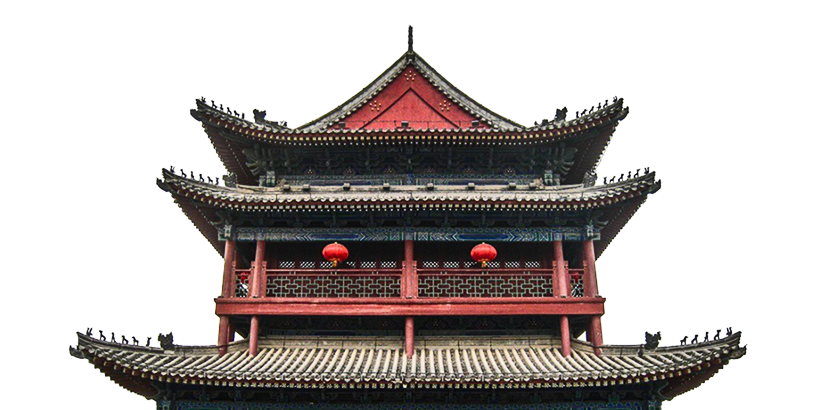
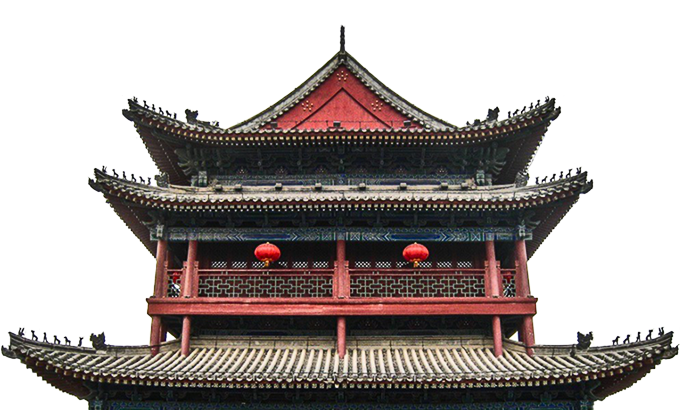
making heroimage small

Changed region(s): [[0.0, 0.0585, 1.0, 1.0]]

diff --git a/app/components/HeroImage.tsx b/app/components/HeroImage.tsx
@@ -3,16 +3,16 @@ import React from "react";
 import styled from "styled-components";
 
 const ResponsiveImg = styled.img`
-  width: 800px;
+  width: 750px;
 
   @media (max-width: 1200px) {
-    width: 670px;
+    width: 620px;
   }
   @media (max-width: 900px) {
-    width: 550px;
+    width: 510px;
   }
   @media (max-width: 600px) {
-    width: 400px;
+    width: 350px;
   }
 `;
 export default function HeroImage() {
